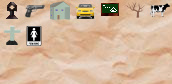
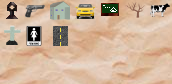
new List (street)

Changed region(s): [[0.2907, 0.3095, 0.407, 0.5476]]

diff --git a/src/app/mapEditor/guiIO.cpp b/src/app/mapEditor/guiIO.cpp
@@ -140,6 +140,7 @@ void guiIO::openObjectWindow()
    objectCharButton = objectTabButton->insertButton(147,0,170,19);
    objectMacabreButton = objectTabButton->insertButton(0,25,24,45);
    objectBathButton = objectTabButton->insertButton(25,25,44,45);
+   objectStreetButton = objectTabButton->insertButton(49,25,71,45);
    objectWindow->setExternPointer(&objectWindow);
    gui->openWindow(objectWindow);
 }
@@ -557,6 +558,7 @@ int guiIO::doIO(int mouseX, int mouseY, Uint8 mButton, Uint8 *keys,
             case STATE_NATURE:
             case STATE_MACABRE:
             case STATE_BATH:
+            case STATE_STREET:
                state = GUI_IO_STATE_OBJECTS;
                tool = TOOL_OBSTACLE_ADD;
             break;
@@ -832,6 +834,10 @@ int guiIO::doIO(int mouseX, int mouseY, Uint8 mButton, Uint8 *keys,
          else if(object == (guiObject*) objectBathButton)
          {
             ltWindow->setState(STATE_BATH);
+         }
+         else if(object == (guiObject*) objectStreetButton)
+         {
+            ltWindow->setState(STATE_STREET);
          }
          /* Particles Buttons */
          else if(object == (guiObject*) fireButton)

diff --git a/src/app/mapEditor/listwindow.cpp b/src/app/mapEditor/listwindow.cpp
@@ -14,6 +14,7 @@
 #define FILE_NATURE     "mapEditor/lists/nature.lst"
 #define FILE_MACABRE    "mapEditor/lists/macabre.lst"
 #define FILE_BATH       "mapEditor/lists/bath.lst"
+#define FILE_STREET     "mapEditor/lists/street.lst"
 
 /* Particles */
 #define FILE_FIRE       "mapEditor/lists/fire.lst"
@@ -106,6 +107,9 @@ void listWindow::setState(int st)
          break;
          case STATE_BATH:
             fileName = FILE_BATH;
+         break;
+         case STATE_STREET:
+            fileName = FILE_STREET;
          break;
          case STATE_FIRE:
             fileName = FILE_FIRE;

diff --git a/src/app/mapEditor/guiIO.h b/src/app/mapEditor/guiIO.h
@@ -212,6 +212,7 @@ class guiIO
       oneTabButton* objectCharButton;     /**< Object Character Button */
       oneTabButton* objectMacabreButton;  /**< Object Macabre Button */
       oneTabButton* objectBathButton;     /**< Object Bath Button */
+      oneTabButton* objectStreetButton;   /**< Object Street Button */
       void openObjectWindow();      
       /*********************Particle*Window*******************************/
       window* particleWindow;             /**< Particle Window */

diff --git a/src/app/mapEditor/listwindow.h b/src/app/mapEditor/listwindow.h
@@ -16,6 +16,7 @@
 #define STATE_NATURE      16
 #define STATE_MACABRE     17
 #define STATE_BATH        18
+#define STATE_STREET      19
 
 /* Particles */
 #define STATE_FIRE        30
